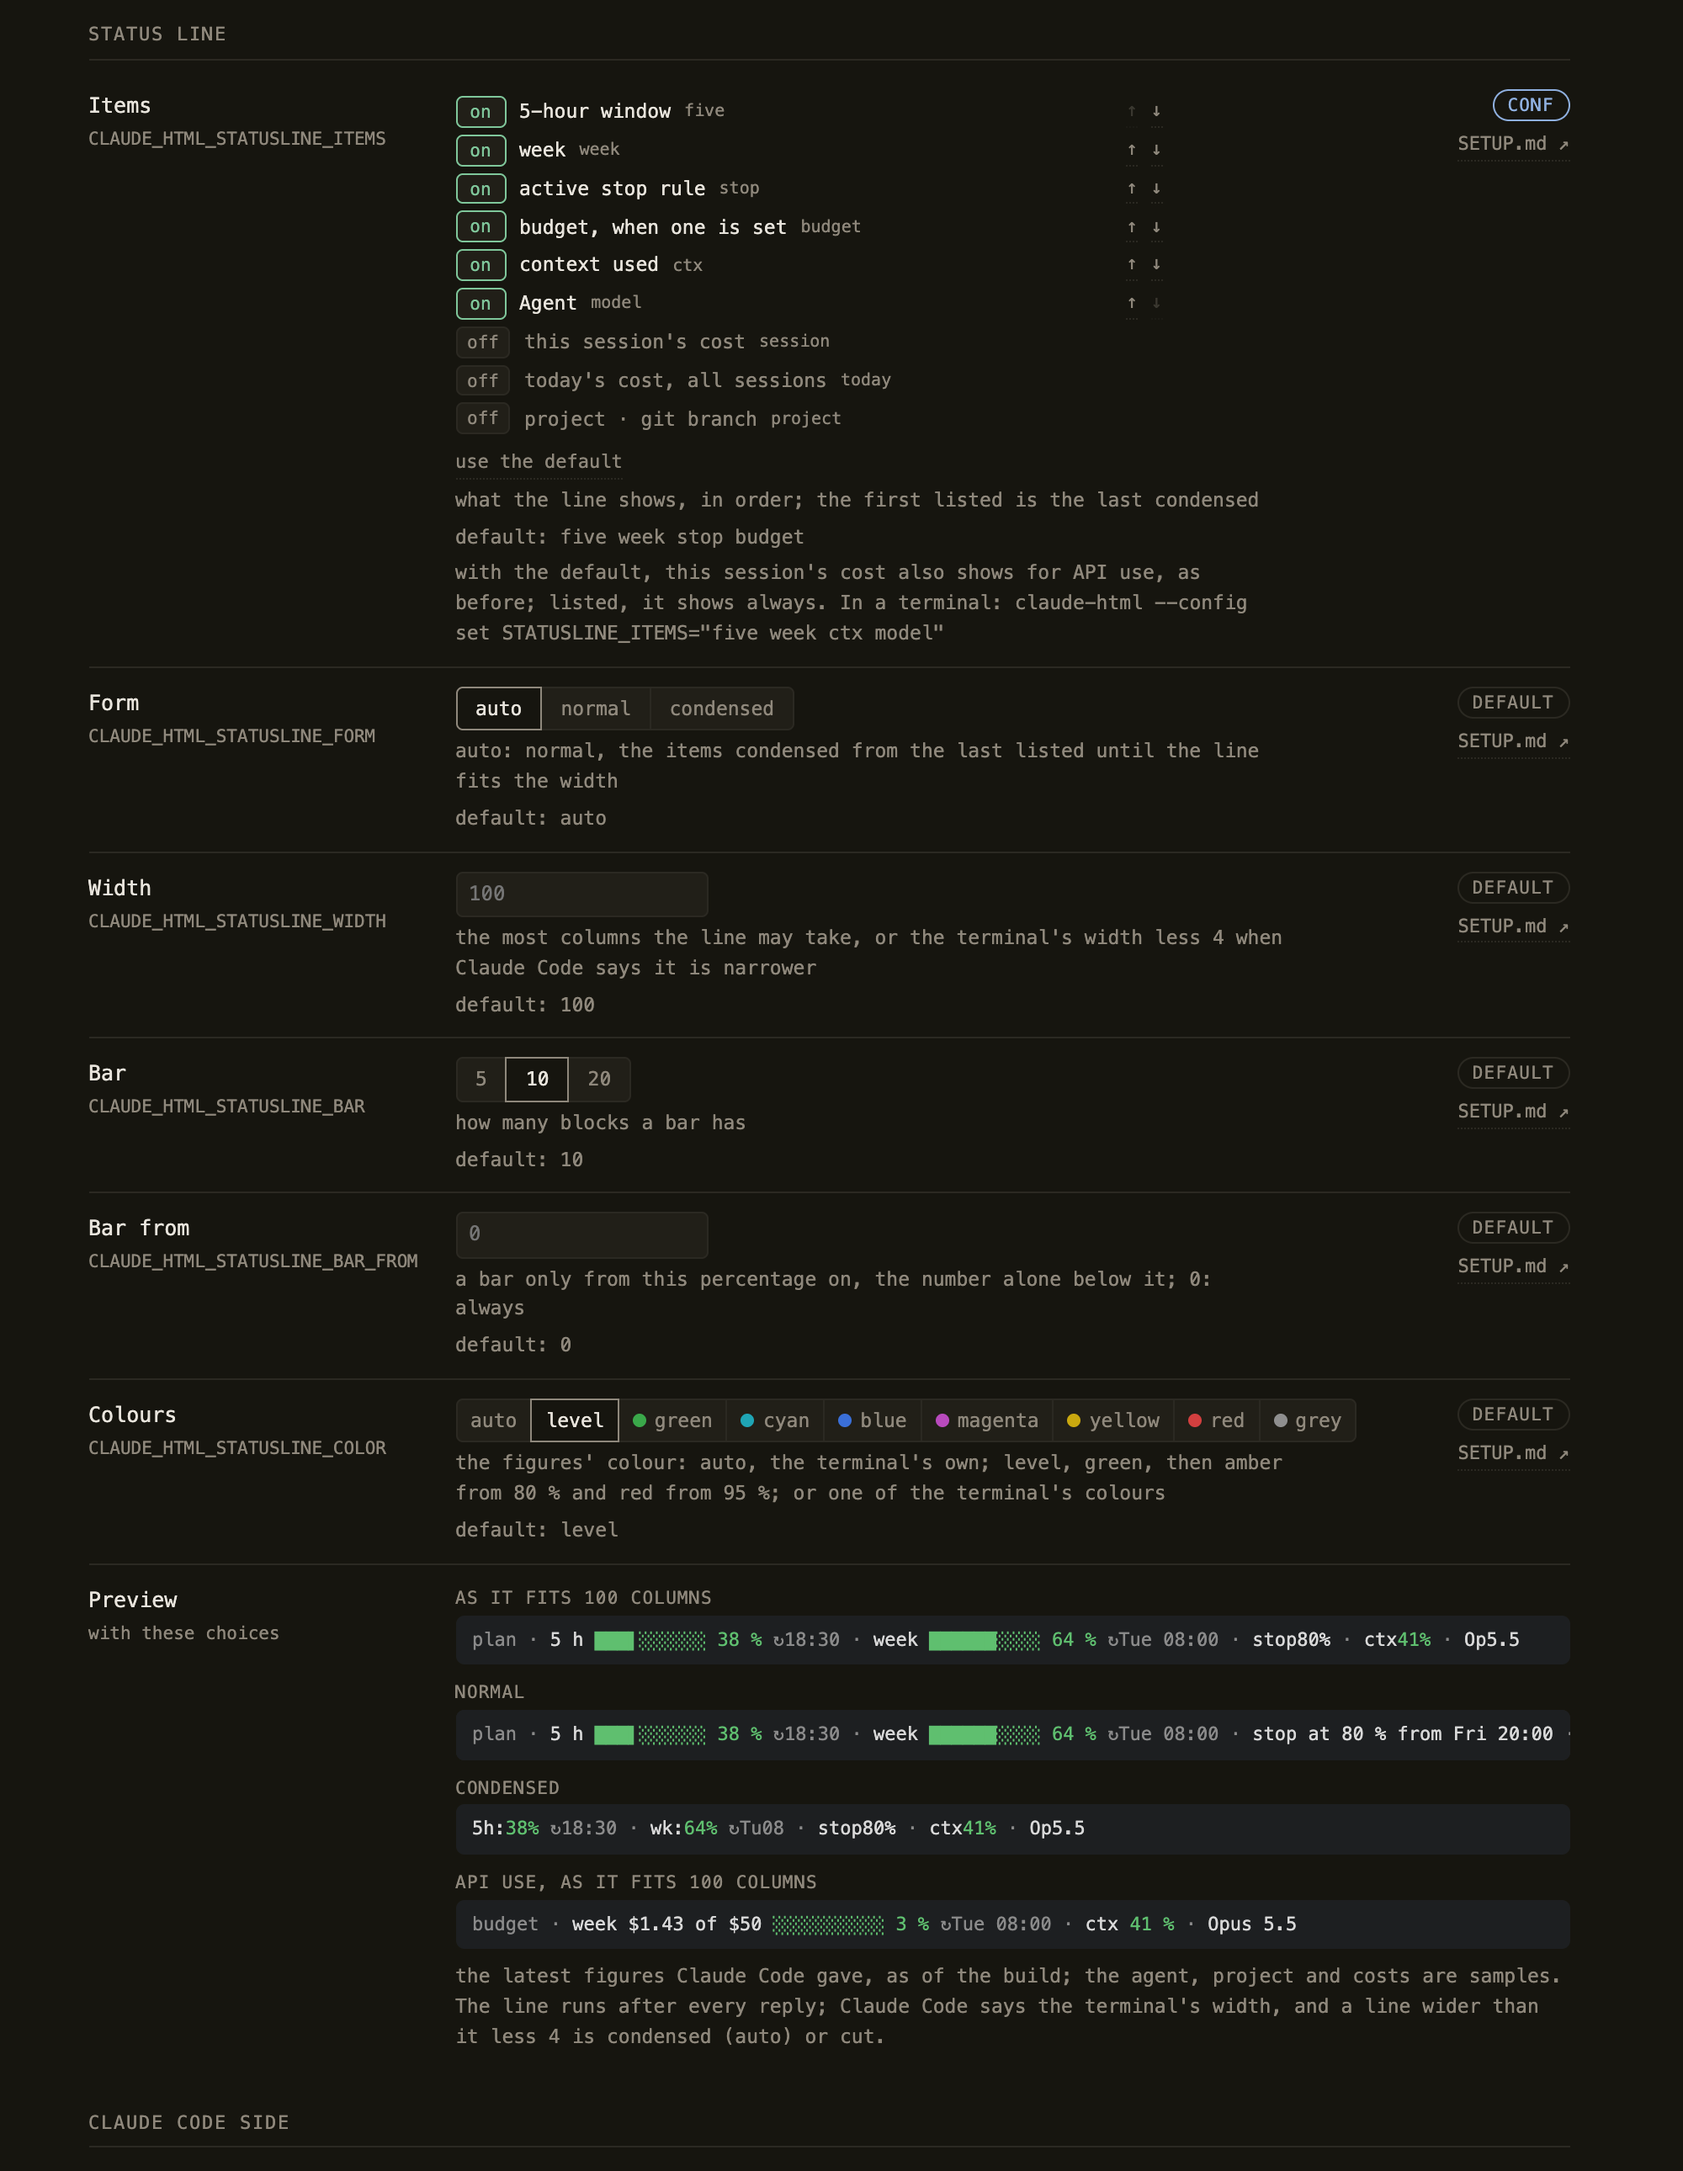
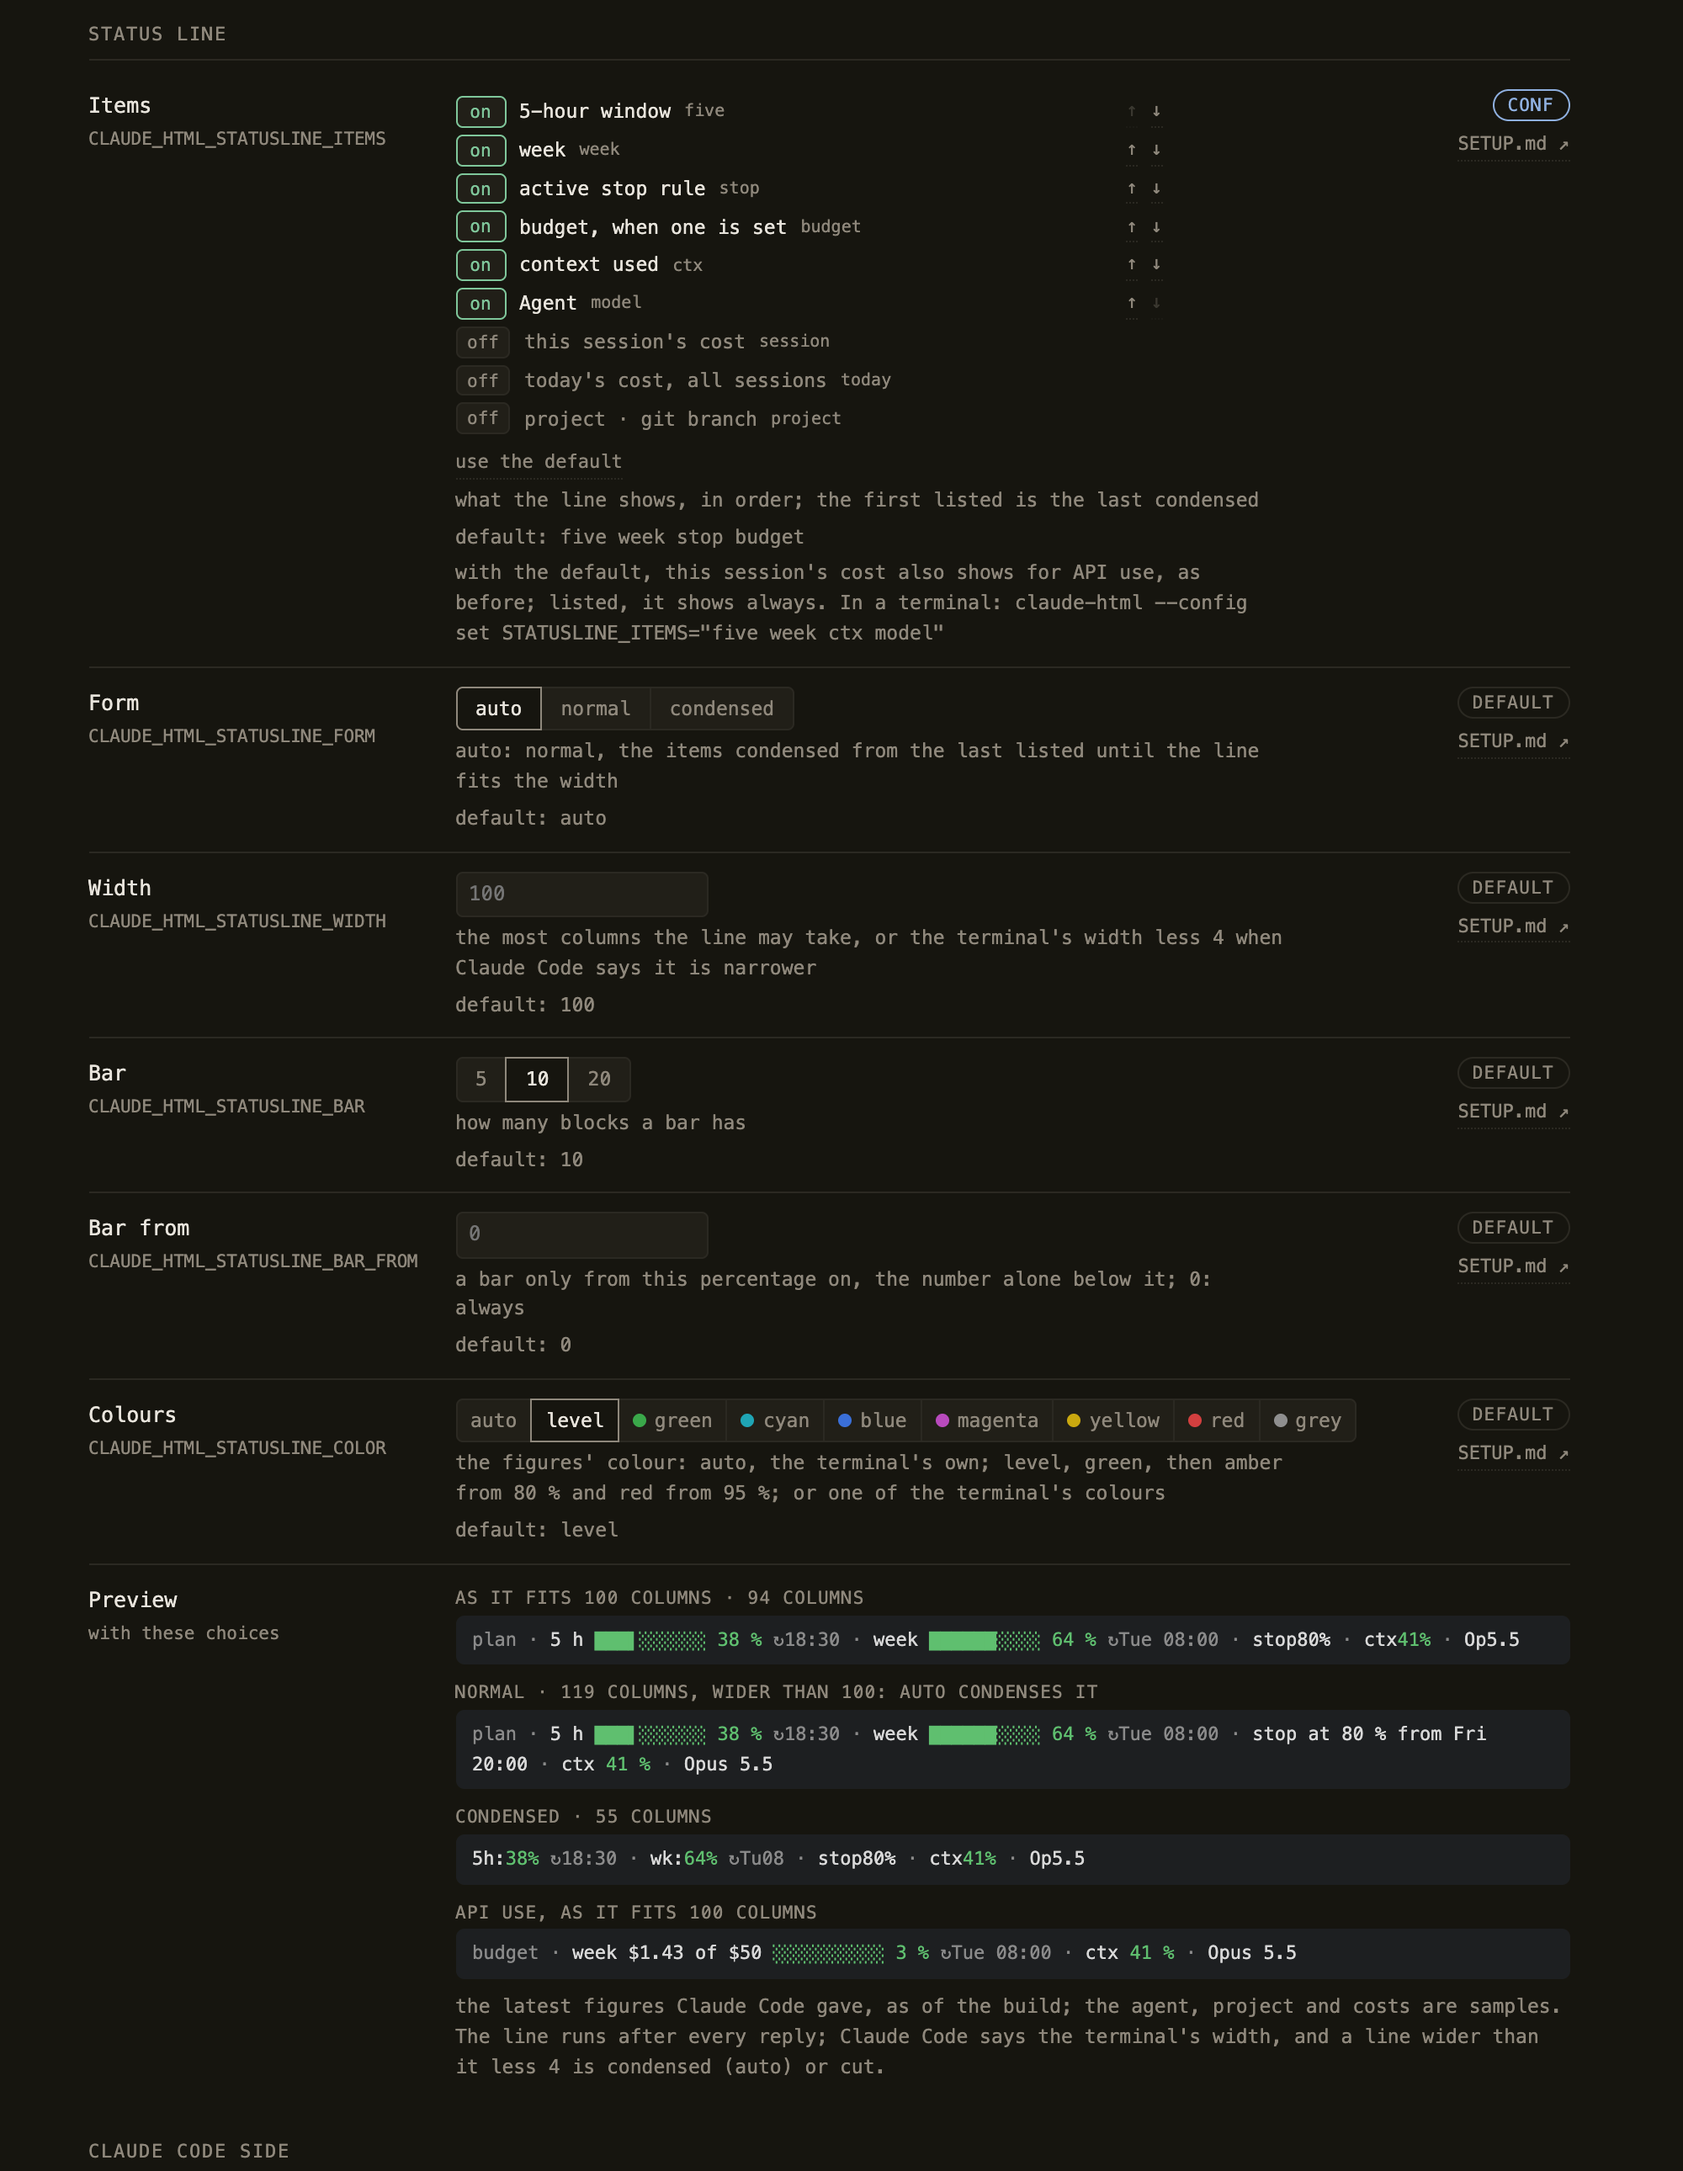
release of v3.7.1

Changed region(s): [[0.279, 0.8062, 0.93, 0.9612], [0.062, 0.9612, 0.155, 0.9922], [0.62, 0.8372, 0.651, 0.8682]]

diff --git a/viewer/settings.js b/viewer/settings.js
@@ -213,9 +213,14 @@
      "CLAUDE_HTML_STATUSLINE_BAR_FROM", "CLAUDE_HTML_STATUSLINE_COLOR"].forEach(function (k) { h += row(S.byKey[k]); });
     var st = slSettings(), r = SLJ.render(st, slData()), b = slBudget(), rb = b ? SLJ.render(st, b) : null;
     function term(html, label) { return '<div class="slp"><span class="slpl">' + esc(label) + '</span><code class="term' + (st.color ? "" : " plain") + '">' + html + "</code></div>"; }
+    // A terminal line is one line: the box wraps it only to stay readable,
+    // and says how wide it really is, and whether it would be too wide.
+    function cols(t) { return Array.from(t).length + " columns"; }
+    function over(t) { return Array.from(t).length > st.width ? ", wider than " + st.width + ": auto condenses it" : ""; }
     var fits = st.form === "auto" ? "as it fits " + st.width + " columns" : st.form;
     h += '<div class="srow slrow" id="slpreview"><div class="sk"><span class="sl">Preview</span><code class="sn">with these choices</code></div><div class="sv">' +
-      term(r.html, fits) + term(r.normalHtml, "normal") + term(r.condensedHtml, "condensed") +
+      term(r.html, fits + " · " + cols(r.text)) + term(r.normalHtml, "normal · " + cols(r.normal) + over(r.normal)) +
+      term(r.condensedHtml, "condensed · " + cols(r.condensed) + over(r.condensed)) +
       (rb ? term(rb.html, "API use, " + fits) : "") +
       '<p class="sh">' + (data.limits && data.limits.plan ? "the latest figures Claude Code gave, as of the build" : "sample figures") +
       "; the agent, project and costs are samples. The line runs after every reply; Claude Code says the terminal's width, and a line wider than it less 4 is condensed (auto) or cut.</p></div></div>";

diff --git a/viewer/settings.html b/viewer/settings.html
@@ -109,7 +109,7 @@ ol.sli li.on button.sltog{color:var(--sok);border-color:var(--sok)}
 .slp{display:flex;flex-direction:column;gap:2px;margin:0 0 8px}
 .slpl{font-size:10.5px;color:var(--dim);text-transform:uppercase;letter-spacing:.06em}
 code.term{display:block;background:#1d1f21;color:#d8d8d8;border-radius:5px;padding:6px 10px;font-size:11px;
-white-space:pre;overflow-x:auto;max-width:100%}
+white-space:pre-wrap;overflow-wrap:anywhere;max-width:100%}
 code.term .sl-g{color:#5fbf6f} code.term .sl-a{color:#ffaf00} code.term .sl-r{color:#e05252} code.term .sl-d{color:#8a8a8a}
 /* The terminal's basic colours, as a dark terminal draws them; the dots
    on the Colours buttons the same. */

diff --git a/CHANGELOG.md b/CHANGELOG.md
@@ -5,6 +5,12 @@ fixes, a minor adds without breaking, a major needs something from you
 (usually `./install.sh` again). To update: `claude-html --update`; before
 3.1.0, `git checkout main && git pull && ./install.sh`.
 
+## 3.7.1 — 2026-11-25
+
+- Settings page: the status line's preview wraps a long line inside its box
+  instead of hiding it under a scrollbar, and says how many columns each form
+  takes, and when the normal one is wider than the line may be.
+
 ## 3.7.0 — 2026-11-25
 
 - Settings page: the guard's safe values one by one — the kind, the date

diff --git a/README.md b/README.md
@@ -97,7 +97,7 @@ git clone https://github.com/pier0074/claude-html ~/claude-html
 cd ~/claude-html && ./install.sh
 ```
 
-For a given release, add `--branch v3.7.0` to the clone;
+For a given release, add `--branch v3.7.1` to the clone;
 [CHANGELOG.md](CHANGELOG.md) says what each one brought.
 
 Nothing else to install. macOS uses its own `osascript`; Linux uses `node`,
